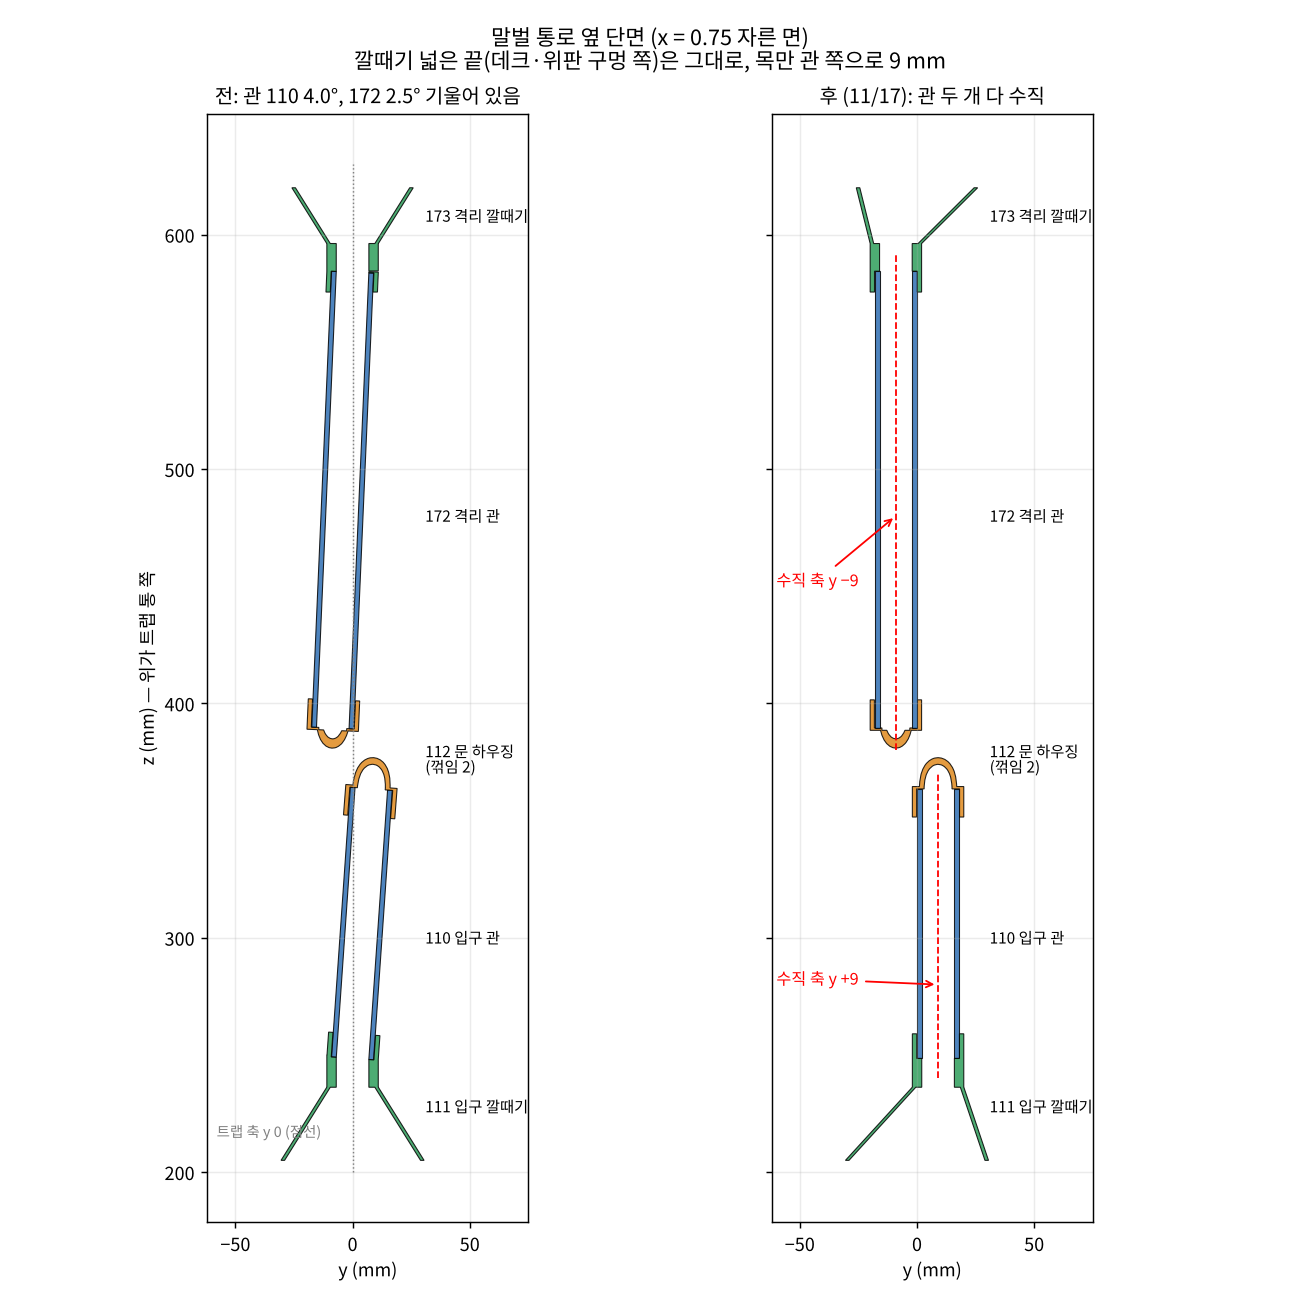
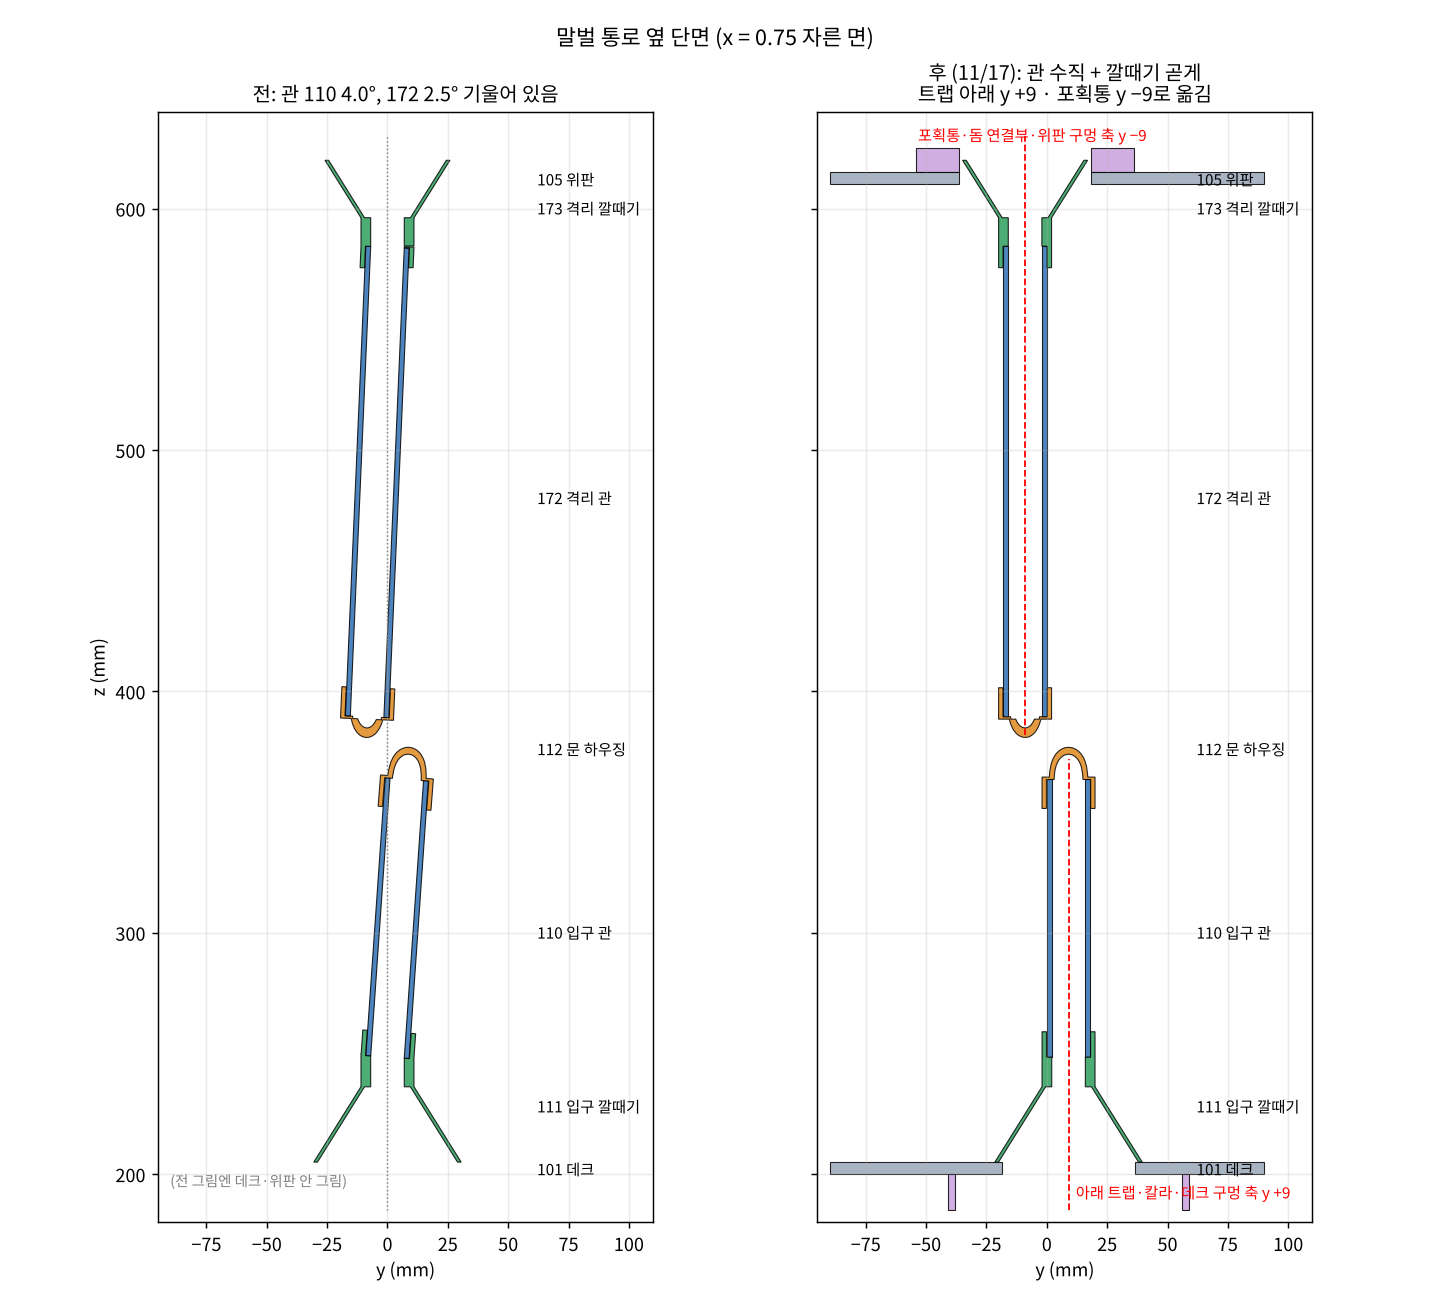
[서현] 트랩 아래·위 관 축으로, 깔때기 곧게 — 기록·그림·엑셀 메모 (CAP-AI-62)
Claude-Session: https://claude.ai/code/session_01Jzg83D8Aa1A65w4ViX2JyU

diff --git a/purchase/xl_build/build2.py b/purchase/xl_build/build2.py
@@ -139,7 +139,7 @@ CR = [
 (1, "입구·격리 문 — 시연 핵심", "3D 프린트 (학교)", "112 입구·격리 문 하우징", D + "프린트_5개_최종\\112_입구격리문하우징.stl' — %g × %g × %g mm, %.1f cm³ · 빛 게이트 G2·G3b 붙는 곳" % (tuple(vol["112"][2]) + (vol["112"][3],)), "학교 3D 프린터", "", 1, 0, "학교"),
 (1, "방생 문 — 시연 핵심", "3D 프린트 (학교)", "176 방생 문 하우징", D + "프린트_5개_최종\\176_방생문하우징.stl' — %g × %g × %g mm, %.1f cm³ · 빛 게이트 G5" % (tuple(vol["176"][2]) + (vol["176"][3],)), "학교 3D 프린터", "", 1, 0, "학교"),
 (1, "격자판·바닥 원판 — 마킹 핵심", "아크릴 레이저 (투명 2T)", "300pf 묶음 (격자판 2 + 바닥 원판 2)", D + "300pf_아크릴_묶음_100x90_2T.dxf' — 판 100 × 90, 옵션 '도면전달' 고르고 메일로 DXF", "아크릴몰 자유재단", "https://www.acrylmall.com/goods/goods_view.php?goodsNo=25555", 1, 8000, "추측 — 구멍 37개 가공비는 문의"),
-(1, "데크·위판 — 전장품·카메라가 붙음", "아크릴 레이저 (5T)", "데크 101 · 위판 105 · 컵받침 220", D + "레이저_데크위판' 101_deck (230 × 180) · 105_top_plate (140 × 180) + '레이저_판' 220_컵받침 (마커 쉬는 컵). 불투명 권장 (카메라 반사). 데크 DXF는 11/17 05시 새로 뽑은 것 (UNO 2 기둥 구멍 3 더) — 그 전 파일 쓰지 말 것", "아크릴몰 자유재단 (5 mm)", "https://www.acrylmall.com/goods/goods_view.php?goodsNo=25555", 1, 16000, "추측"),
+(1, "데크·위판 — 전장품·카메라가 붙음", "아크릴 레이저 (5T)", "데크 101 · 위판 105 · 컵받침 220", D + "레이저_데크위판' 101_deck (230 × 180) · 105_top_plate (140 × 180) + '레이저_판' 220_컵받침 (마커 쉬는 컵). 불투명 권장 (카메라 반사). 데크·위판 DXF는 11/17 11시 새로 뽑은 것 (트랩 축이 데크 y +9 · 위판 y −9로 옮겨 통로 관 수직, UNO 2 기둥 구멍, MOSFET 긴 나사 구멍 2) — 그 전 파일 쓰지 말 것", "아크릴몰 자유재단 (5 mm)", "https://www.acrylmall.com/goods/goods_view.php?goodsNo=25555", 1, 16000, "추측"),
 (1, "카메라 판·Pi 선반 바닥", "아크릴 레이저 (3T)", "181 카메라판 · 199a Pi 선반 바닥", D + "레이저_판' 181_카메라판_아크릴3T · 199a_Pi선반바닥_아크릴3T", "아크릴몰 자유재단 (3 mm)", "https://www.acrylmall.com/goods/goods_view.php?goodsNo=25555", 1, 5000, "추측"),
 (4, "통로 — 시연은 표본을 마킹실에 바로 넣어도 됨", "3D 프린트 (학교)", "111 입구 깔때기", D + "프린트_5개_최종\\111_입구깔때기.stl' — %g × %g × %g mm, %.1f cm³" % (tuple(vol["111"][2]) + (vol["111"][3],)), "학교 3D 프린터", "", 1, 0, "학교"),
 (4, "통로 (격리 쪽)", "3D 프린트 (학교)", "173 격리 깔때기", D + "프린트_5개_최종\\173_격리깔때기.stl' — %g × %g × %g mm, %.1f cm³" % (tuple(vol["173"][2]) + (vol["173"][3],)), "학교 3D 프린터", "", 1, 0, "학교"),

diff --git a/cad/README.md b/cad/README.md
@@ -189,3 +189,4 @@
 - 2026-11-17 04:15 (서현, CAP-AI-62) `xy_detail.py` (XY·펜 그립 실제 모양 + 구멍마다 나사), `xy_ytravel.py` (YB 쪽 +10, Y 봉 114 → Y 최대 +19), `check_xy_travel.py` (캐리지 ↔ 빔 Y 행정 검사), 판 DXF 탭·접시, 조립 그림 7장
 - 2026-11-17 05:40 (서현, CAP-AI-62) `s23_gates3_shield.py` (다시는 `split/S2·S3·P2xy *_before_g3`에서): 빛 게이트 3쌍 — G1(114·199d·199e·199s)·G6(196_gate_G6·199c) 지움 (DXF 199b~e도 지움), 서보·게이트 허브(만능기판·J_I2C·기둥·나사) → 센서 쉴드 V5 2 (193k, 57 × 53 [추측]) + 꽂힌 점퍼 자리 (193kj), 판 DC 잭 194j·판 퓨즈 194f → 잭 변환 194c + FHAM1 194u (데크에 테이프), XL4015 2 (193x, 66 × 36 × 20 [추측]), 와고 받침·볼트 지우고 와고 z −1 (테이프), **UNO 2를 UNO 1 위에서 데크 (x −45~30, y 35~88)로** (쉴드 위 점퍼 높이), 기둥 5 mm × 6, 데크 Ø3.4 구멍 3 더 → `print/laser/101_deck_레이저_5T.dxf` 다시 (바탕화면 레이저_데크위판에도). 정지 겹침: XL4015 ②가 데크 M5 머리 (88, 80)에 닿아 y −14 → 0. 옛 허브·와고 볼트 데크 구멍은 그대로 둠 (테이프 밑, 안 씀)
 - 2026-11-17 10:40 (서현, CAP-AI-62) `s2_ducts_vertical.py` (다시는 `split/S2_마킹부_before_vert`에서) — 서현 "통로 수직으로": 입구 관 110 (4.0° 기울었음)·격리 관 172 (2.5°)를 **수직**으로. 하우징 112 꺾임 2개를 11/15에 돌렸던 만큼 되돌려 소켓 수직 (입구 (0, 9) · 격리 (1.5, −9)), 관 길이 115.0 · 194.9 (그대로), 깔때기 111·173은 넓은 끝(데크·위판 구멍 쪽)은 그대로 두고 목만 9 mm 옮긴 비스듬한 깔때기 (통째로 옮기면 111이 UNO 2와 겹침). 173 콘은 로프트로 (STL 닫힘), 112 STL은 0.02로. 정지 겹침 0 (서보 셀프 탭 나사 ↔ 하우징은 원래 박히는 것), 관 ↔ 소켓 0
+- 2026-11-17 11:15 (서현, CAP-AI-62) `s23_trap_offset.py` (다시는 `split/S2·S3 *_before_trap`에서) — 서현 "격리실·포획실을 옮기면 깔때기를 이상하게 안 만들어도 됨": 비스듬한 깔때기 대신 **트랩 아래(몸·미끼컵·차양막·링) + 칼라 102 + 칼라 볼트를 y +9, 포획통·뚜껑·실리콘 별 + 돔 연결부 104를 y −9**, 깔때기 111·173은 곧은 콘 (관 축과 같은 축). 데크 가운데 구멍 Ø55·칼라 구멍 4 → y +9, 위판 가운데 구멍 → y −9 (DXF 둘 다 다시, 바탕화면에도). 옮긴 111 아래 끝이 UNO 2 기판 밑에 닿아 UNO 2·쉴드·기둥 +2. 찾은 김에: MOSFET 긴 나사 2 (198s, y 83.3)가 데크에 구멍 없이 그려져 있었음 → Ø3.4 + 아래 너트 (M3 × 16, 키트 A). 정지 겹침 0

diff --git a/ai-log/AI_명령사항_로그.md b/ai-log/AI_명령사항_로그.md
@@ -1257,3 +1257,7 @@
   - [확실 — CAD] 수직 아니었음: 입구 관 110 4.0°, 격리 관 172 2.5° (11/15 s2_doors_swap — 깔때기 목은 트랩 축 (0, 0), 문 묶음은 y ±9라 꺾임을 돌려 비스듬히 이었음)
   - `cad/s2_ducts_vertical.py`: 하우징 112 꺾임 2개를 그만큼 되돌려 소켓 수직, 관 110 (0, 9) · 172 (1.5, −9) 수직 (길이 115.0 · 194.9 — DKD 주문 길이 그대로), 깔때기 111·173은 넓은 끝 그대로 + 목만 9 mm (비스듬한 깔때기 — 통째로 옮기면 111이 UNO 2와 겹치고 데크·위판 DXF도 바뀜 [AI 판단]). STL 111·112·173 다시 (닫힌 한 덩어리 [확실]), 바탕화면 `프린트_5개_최종`도
   - 그림 `cad/img/통로_수직_전후.png` (옆 단면 전·후)
+- **(10:59) 서현 "격리실·포획실 위치를 옮기면 입구 깔때기를 이상하게 안 만들어도 되잖아 … 30분이나 걸려. 움직일 수 있고 움직일 거야":**
+  - `cad/s23_trap_offset.py`: 트랩 아래(포획기)·칼라 102·볼트 y +9, 포획통·돔 연결부 104 y −9, 깔때기 111·173 곧게 (관 축과 한 축), 데크·위판 가운데 구멍 옮김 + DXF, UNO 2 +2 (깔때기 아래 끝 비킴). 정지 겹침 0 [확실 — CAD], STL 111·173 닫힘
+  - 실수: 중간에 열어 둔 옛 S3 문서를 다시 저장해 트랩 옮김을 덮어씀 → 백업(`_before_trap`)에서 스크립트를 다시 돌려 복구. 그때 찾은 것: MOSFET 긴 나사 2가 데크 구멍 없이 그려져 있었음 → 구멍 추가
+  - 그림 `cad/img/통로_수직_전후.png` 다시 (곧은 깔때기 + 데크·위판), 엑셀 주문제작 데크 줄 메모 (11시 DXF)
